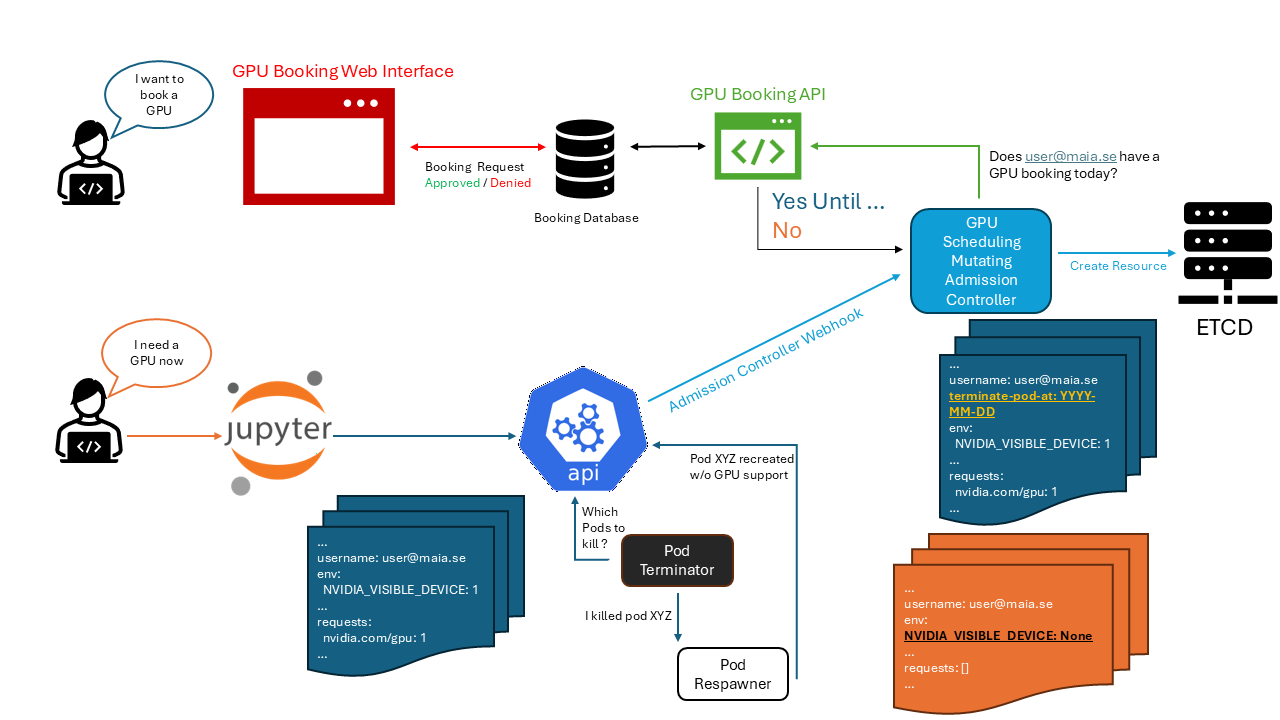
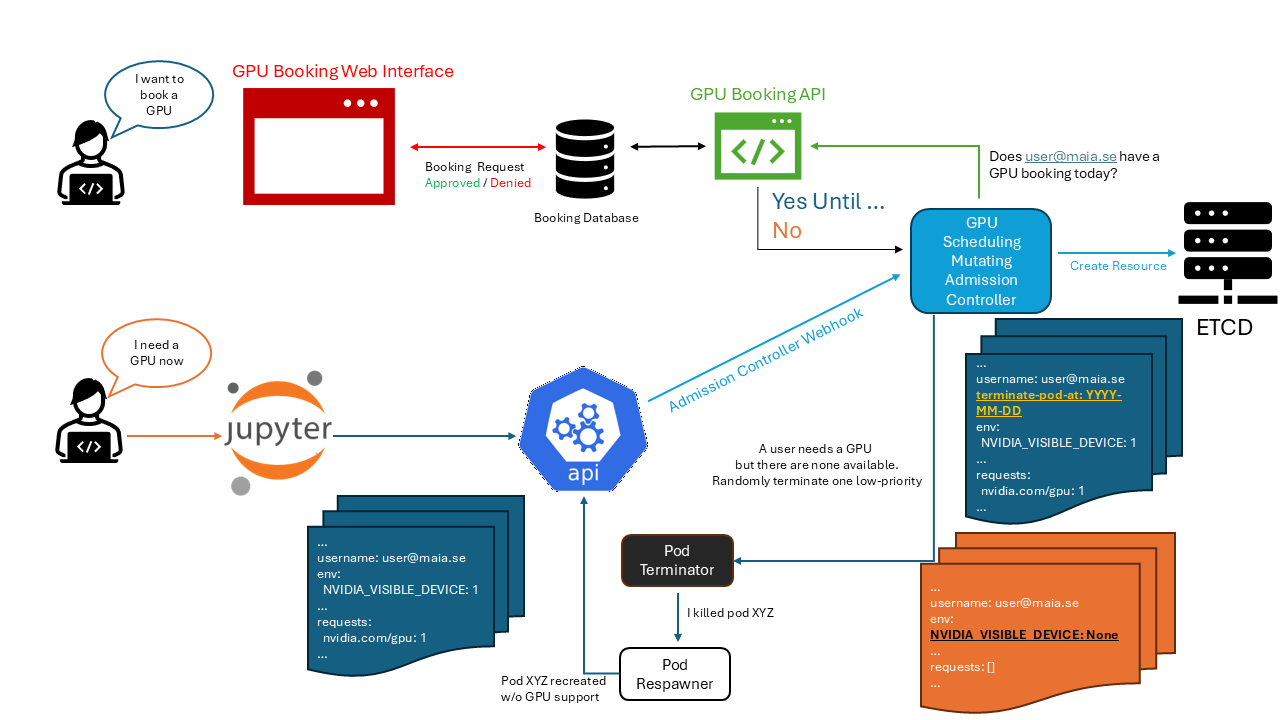
Enhance GPU Booking System documentation with detailed access and priority manual, booking restrictions, and controller execution flow. Update installation instructions to include gpuStatsUrl for improved API integration.

diff --git a/GPU_Booking_System.md b/GPU_Booking_System.md
@@ -7,6 +7,172 @@ GPU Cards are expensive and are a shared resource in a lab. To make sure that ev
 
 ![](./GPU-Booking-System.png)
 
+## GPU Booking: Access and Priority Manual
+
+The GPU booking system allows you to reserve a GPU card for a specific time slot and manage your reservations, including cancellations. To ensure equitable resource allocation, the system uses two distinct priority levels and several key booking restrictions.
+
+### 1. Understanding Priority Levels
+
+Access to available GPU resources is governed by two priority tiers:
+
+#### **High Priority**
+
+This status is automatically assigned when you have an **active, currently running booking**. High Priority guarantees your continued access to the reserved GPU for the duration of your slot.
+
+#### **Low Priority**
+
+This status is assigned when you **do not** have an active, running booking.
+
+* **Initial Access:** If GPU cards are available, a Low Priority user will immediately be assigned one.
+
+* **Resource Revocation:** Access for Low Priority users is temporary and contingent on resource availability for High Priority users.
+
+  * If a **High Priority user requests a GPU** and all other cards are busy, your temporarily assigned GPU will be **immediately revoked** and reassigned to the High Priority user.
+
+  * If the High Priority user can be assigned a **different available GPU card**, you will retain your card until all resources are exhausted and another High Priority request occurs.
+
+### 2. Booking Restrictions and Rules
+
+To maintain system integrity and fairness, the following rules apply when attempting to create a new booking:
+
+| Rule | Description | 
+ | ----- | ----- | 
+| **No Active Overlap** | You **cannot** book a new GPU while you currently have an **active, running booking**. | 
+| **Future Booking Limit** | You can only have **one planned (future-dated) booking** in the system at a time. You cannot book a new slot if you already have one scheduled. | 
+| **14-Day Cooldown** | After an existing booking ends, you must wait **at least 14 full days** before the start time of any new reservation. The system will calculate and display the earliest valid start date for your next booking. | 
+| **Minimum Duration** | The length of your booking must be **at least one day** long. | 
+| **Maximum Duration** | The length of your booking **cannot exceed 14 days**. | 
+
+These rules are designed to balance dedicated access for research requiring long runs (High Priority) with opportunistic access for users who need quick computation (Low Priority).
+
+## How the system works
+In MAIA there are three component that are interplaying for orchestrating the GPU booking system:
+- The GPU Booking System, hosted as a API in the MAIA Dashobard as a database which is responsible for creating and managing the bookings.
+- The Pod terminator, which is responsible for terminating the pods with a GPU and recreate them without a GPU, when needed.
+- The GPU Booking Admission Controller, which is responsible for the checking if the user has an active booking and assigning the correct priority level to the user pods.
+
+### HIgh priority user requesting a GPU card
+- The user request to start a GPU-powered pod
+- The GPU Booking Admission Controller will check if the user has an active booking and assign the correct priority level to the user pods.
+### Low priority user requesting a GPU card
+
+
+
+
+## GPU Booking Controller Execution Flow
+
+The GPU Booking Admission Controller is implemented as a Kubernetes Mutating Admission Webhook. Its main function is to intercept Pod creation requests, validate them against the external GPU booking system, and mutate the Pod specification to enforce resource and termination policies based on the user's booking status.
+
+---
+
+### **Phase 1: Request Reception and User Identification**
+
+1. **Receive and Validate Request**  
+   The controller receives an HTTP POST request at the `/mutate` endpoint. It reads the request body and verifies that it is a valid Kubernetes `AdmissionReview` for a Pod resource.
+
+2. **Identify User**  
+   The controller attempts to extract the user's email from the Pod's label:  
+   `hub.jupyter.org/username`.
+
+3. **Decode Email**  
+   The username is K8s-encoded; the controller decodes it by replacing:
+   - `-40` → `@`
+   - `-2d` → `-`
+   - `-2e` → `.`
+   to reconstruct the standard email address.
+
+4. **Bypass Check (No User)**  
+   If the required user label is missing, the request is immediately marked as **Allowed** with no mutations, and webhook processing ends.
+
+5. **Load Configuration**  
+   The controller loads necessary external API URLs (`API_URL`, `GPU_STATS_URL`) and the authentication token (`API_TOKEN`) from environment variables. The two APIs are referring to the MAIA Dashboard functions for accessing the GPU booking system and the GPU availability monitoring system.
+
+---
+
+### **Phase 2: Booking Status Check (External API Call)**
+
+1. **Query Booking System**  
+   The controller sends an authenticated POST request to the external booking service (`API_URL`) with the extracted user email and namespace.
+
+2. **Process Booking Response**  
+   The expected JSON response (`ApiResponse`) includes:
+   - `Schedulable`: Boolean (true if the user has a current or future booking)
+   - `Until`: The end time of the user's reservation
+   - `GPU`: The specific GPU type reserved by the user
+
+---
+
+### **Phase 3: Action for Non-Schedulable Users (Low Priority / No Booking)**
+
+If `Schedulable` is **false**, the user is denied guaranteed access.
+
+1. **Flag for Termination**  
+   If the Pod requests a GPU resource (`nvidia.com/gpu`), the controller adds a JSON patch to annotate the Pod with `terminate-at` set to a date in the distant past (`1900-01-01`). This signals the scheduler/terminator to reject or terminate the Pod immediately.
+
+2. **Check Cluster Availability**  
+   The controller performs a GET request to `GPU_STATS_URL` to determine overall cluster GPU availability (specifically checking the count for `NVIDIA-RTX-A6000` as a default).
+
+3. **Deny GPU Access (If Unavailable)**  
+   If the availability check returns zero available GPUs, the controller applies further JSON patches to all containers to:
+   - Remove the GPU resource requests and limits (`nvidia.com/gpu`)
+   - Add or replace the environment variable `NVIDIA_VISIBLE_DEVICES` with the value `"none"`
+
+4. **Finalize**  
+   The request is marked as **Allowed** along with the necessary patches to deny GPU access.
+
+---
+
+### **Phase 4: Action for Schedulable Users (High Priority / Active Booking)**
+
+If `Schedulable` is **true**, the user is authorized.
+
+1. **Check Specific GPU Availability**  
+   The controller queries `GPU_STATS_URL` to check the current availability of the specific GPU type (`apiResponse.GPU`) the user has booked.
+
+2. **Trigger Low-Priority Preemption**  
+   If the specific booked GPU type is unavailable (i.e., a Low Priority Pod is likely using it), the controller triggers preemption logic by sending a POST request to a dedicated service URL:  
+   `http://pod-terminator:8080/random-delete`  
+   This action terminates a running low-priority GPU Pod to free a resource for the new, high-priority booking.
+
+3. **Enforce Termination Time**  
+   The controller adds a JSON patch to annotate the Pod with `terminate-at`, setting the value to `apiResponse.Until`, ensuring the Pod will automatically terminate when the booking expires.
+
+4. **Finalize**  
+   The request is marked as **Allowed** along with the termination-time patch.
+
+
+
+## Pod Terminator Service
+
+The **Pod Terminator Service** is a Python-based Flask application that manages the lifecycle of GPU Pods in a Kubernetes cluster, ensuring compliance with GPU booking policies. It enforces booking rules by terminating and rescheduling Pods that have exceeded their reservation or have been pre-empted.
+
+### Core Functions
+
+#### 1. Scheduled Termination of Expired Pods
+
+- The service continuously monitors all running Pods in the cluster.
+- It identifies Pods annotated with a `terminate-at` timestamp and currently running a GPU workload.
+- If the current UTC time is past the `terminate-at` value, the Pod is deleted.
+
+#### 2. Low-Priority Preemption (`/random-delete` Endpoint)
+
+- This endpoint is invoked by the GPU Booking Controller (see Phase 4 above).
+- Upon receiving a request, the service locates all expired Pods (typically low-priority Pods running past their reservation or otherwise flagged).
+- It randomly selects one of these expired Pods and deletes it immediately, freeing up a GPU resource for a high-priority booking.
+
+#### 3. Graceful Degraded Reschedule (`recreate_pod`)
+
+- After a Pod is deleted (either due to expiry or preemption), the service attempts to recreate it.
+- During recreation:
+  - All `nvidia.com/gpu` resource requests and limits are removed.
+  - The `NVIDIA_VISIBLE_DEVICES` environment variable is reset.
+- This allows the workload to be rescheduled on a standard CPU node (without GPU access), providing graceful degradation instead of a hard crash.
+
+---
+
+In summary, the Pod Terminator Service enforces the `terminate-at` annotation set by the GPU Booking Controller, ensuring that GPU resources are reclaimed promptly and that high-priority bookings are honored. It also ensures that workloads can continue running (albeit without GPU access) after preemption or booking expiry.
+
+---
 
 ## Installation
 
@@ -19,6 +185,7 @@ helm install gpu-booking gpu-booking -n gpu-booking --create-namespace
 The custom values for the GPU Booking component can be set in the `values.yaml` file. The following values can be customized:
 ```yaml
 apiUrl: "https://maia.app.cloud.cbh.kth.se/maia-api/gpu-schedulability/" # The URL of the GPU Schedulability API service from the MAIA Dashboard
+gpuStatsUrl: "https://maia.app.cloud.cbh.kth.se/maia-api/gpu-stats/" # The URL of the GPU Stats API service from the MAIA Dashboard
 apiToken: "secret-token" # The API token for the GPU Schedulability API service
 namespace: "gpu-booking" # The namespace where the GPU Booking component is deployed
 ```
